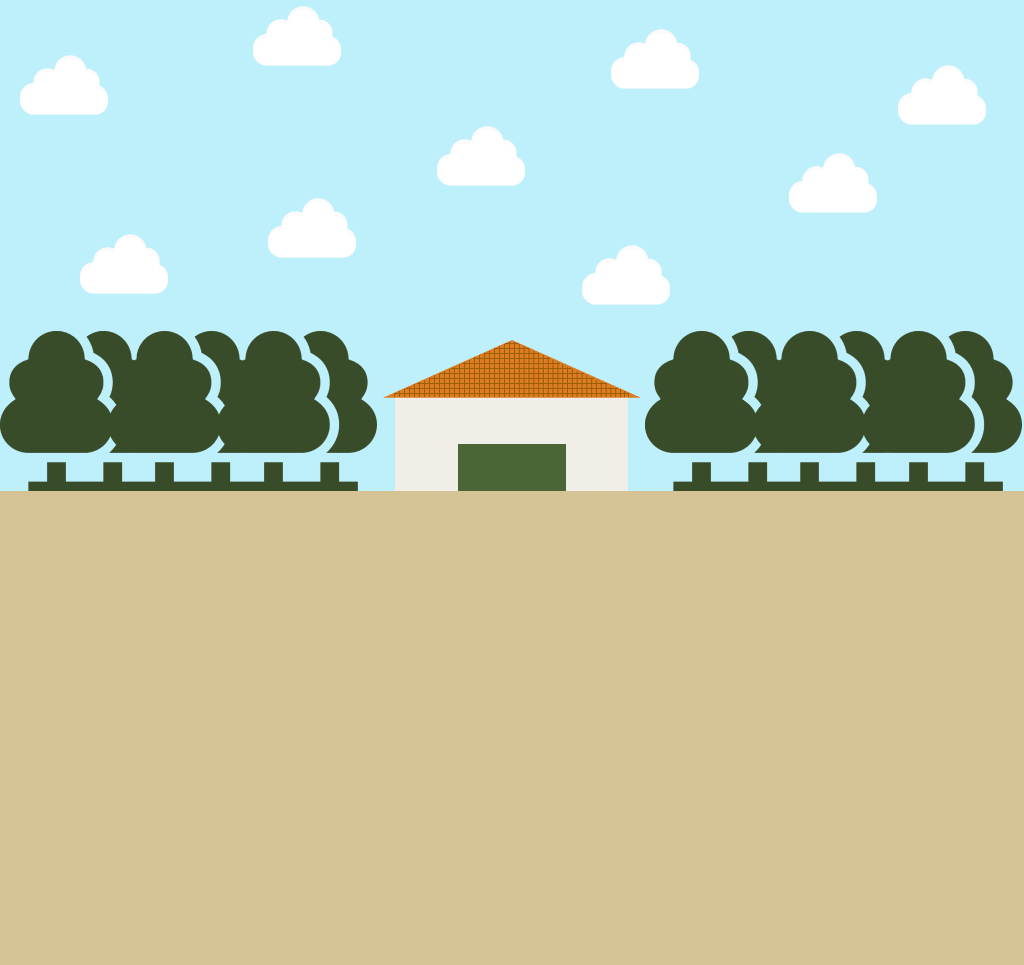
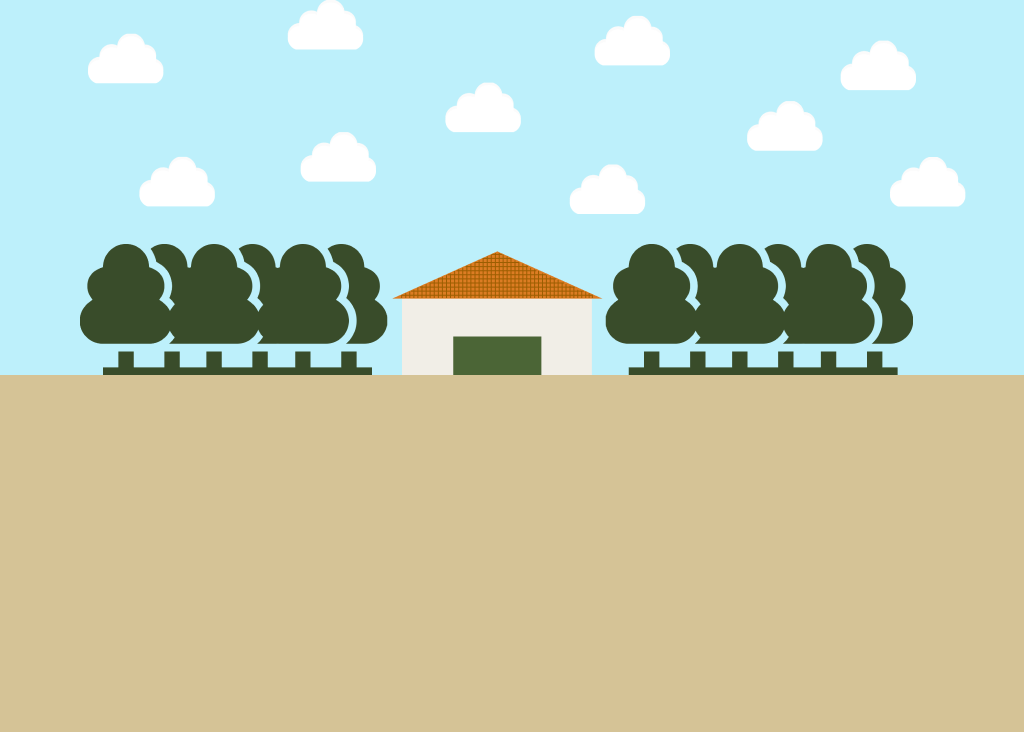
style: bg 수정

diff --git a/style.css b/style.css
@@ -7,7 +7,7 @@ body {
   margin: 50px;
   width: 90%;
   height: 100%;
-  background: url(./img/bg.png) center/cover no-repeat;
+  background: url(./img/bg.svg) center/cover no-repeat;
   background-color: rgb(199, 196, 48);
 }
 
